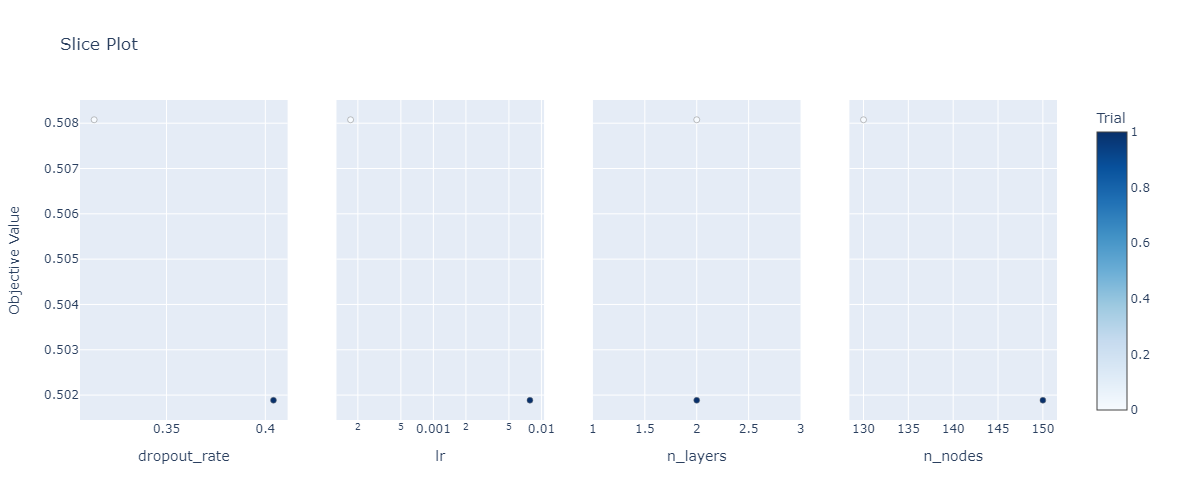
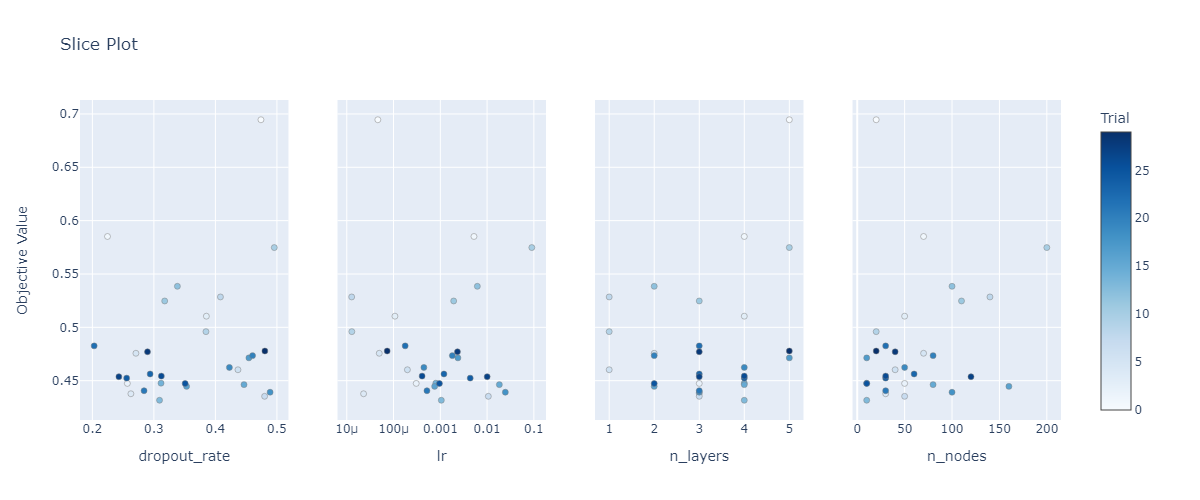
final result

diff --git a/src/script/execute.py b/src/script/execute.py
@@ -33,7 +33,7 @@ def main(trend, baseline=False):
 
     # tune model
     best_params, val_loss = tune_model(norm_train, norm_val, trend=trend)
-    print(f'best hyperparameters: {best_params}\nval RMSE: {np.sqrt(val_loss)}')
+    print(f'best hyperparameters: {best_params}\nval loss: {np.sqrt(val_loss)}')
     if baseline:
         with open('../../results/best_params_baseline.json', 'w') as f:
             json.dump(best_params, f)
@@ -44,7 +44,7 @@ def main(trend, baseline=False):
     # train model with best params
     full_train = np.concatenate((norm_train, norm_val))
     min_test_loss, opt_model_state = train_model(best_params, full_train, norm_test, trend=trend)
-    print(f'minimum test RMSE: {min_test_loss}')
+    print(f'minimum test BCElogistic: {min_test_loss}')
 
     # evaluate with test set and plot results
     lookback = best_params['lookback']
@@ -76,13 +76,13 @@ def main(trend, baseline=False):
         val_plot = np.empty_like(price) * np.nan
         val_plot[len(y_pred)+lookback:len(y_pred)+len(val_pred)+lookback] = val_pred.flatten()
         
-        t_pred = model(temp_test)
-        unscaled_t_pred = t_pred[:, -1, 0].view(-1, 1)  # select the 1-D output and reshape from (batch_size, sequence_length) to (batch_size*sequence_length, 1)
-        t_pred = price_scaler.inverse_transform(unscaled_t_pred) # only price need to be rescaled, trend does not
-        t_plot = np.empty_like(price) * np.nan
-        t_plot[len(y_pred)+len(val_pred)+lookback:] = t_pred.flatten()
+        t_pred = model(temp_test)        
 
         if not trend: 
+            t_pred = price_scaler.inverse_transform(unscaled_t_pred) # only price need to be rescaled, trend does not
+            t_plot = np.empty_like(price) * np.nan
+            t_plot[len(y_pred)+len(val_pred)+lookback:] = t_pred.flatten()
+
             plt.figure(figsize=(10,2))
             plt.plot(price, c='b')
             plt.plot(train_plot, c='r')
@@ -99,6 +99,8 @@ def main(trend, baseline=False):
             plt.show()
 
         else:
+            unscaled_t_pred = t_pred[:, -1, 0].view(-1, 1)  # select the 1-D output and reshape from (batch_size, sequence_length) to (batch_size*sequence_length, 1)
+
             # Calculate true positive and false positive rates
             y_true = test_label[:,0,0].view(-1, 1)
             y_score = unscaled_t_pred
@@ -125,4 +127,4 @@ if __name__ == '__main__':
     if sys.argv[1].lower() not in ['true', 'false']:
         raise ValueError('Invalid input: please use True or False')
     trend = sys.argv[1].lower() == 'true'
-    main(trend, baseline=True)
+    main(trend, baseline=False)

diff --git a/src/script/train.py b/src/script/train.py
@@ -31,17 +31,15 @@ def train_model(params, norm_train, norm_val, trend, n_epochs=2000):
     # create dataloader
     batch_size = 10
     loader = data.DataLoader(data.TensorDataset(X_train, y_train), shuffle=True, batch_size=batch_size)
-    
     # setup model
     model = LSTMModel(input_dim=input_dim, n_nodes=n_nodes, output_dim=1, n_layers=n_layers, dropout_rate=dropout_rate)
     model.double()
     optimizer = opt.Adam(model.parameters(), lr=lr)
-    loss_fn = nn.MSELoss()
+    loss_fn = nn.BCEWithLogitsLoss()
 
     # train model
     min_val_loss = float('inf')
     eval_period = 50 if n_epochs > 1000 else 5
-
 
     for t in range(n_epochs):    
         model.train()
@@ -59,7 +57,6 @@ def train_model(params, norm_train, norm_val, trend, n_epochs=2000):
             with torch.no_grad():
                 val_pred = model(X_val)
                 val_loss = loss_fn(val_pred, y_val).item()
-
                 # Check if current val loss is lower than the minimum val loss
                 if val_loss < min_val_loss:
                     # If so, update the minimum val loss and save the current model state
@@ -70,9 +67,8 @@ def train_model(params, norm_train, norm_val, trend, n_epochs=2000):
                     counter += 1
 
         # If the minimum val loss has not been updated for 2 consecutive epochs, stop training
-        if counter == 2:
+        if counter == 3:
             print(f'Early stopping at epoch {t*eval_period}')
             break
-            #print("Epoch %d: train RMSE %.4f, val RMSE %.4f" % (t, np.sqrt(loss.item()), np.sqrt(val_loss)))
-    return np.sqrt(min_val_loss), opt_model_state
+    return min_val_loss, opt_model_state
 

diff --git a/src/script/tuning.py b/src/script/tuning.py
@@ -7,17 +7,30 @@ def objective(trial, norm_train, norm_val, trend):
         'lookback' : trial.suggest_int("lookback", 5, 60, step=5),
         'lr' : trial.suggest_float("lr", 1e-5, 1e-1, log=True),
         'n_nodes' : trial.suggest_int("n_nodes", 10, 200, step=10),
-        'n_layers' : trial.suggest_int("n_layers", 1, 100),
+        'n_layers' : trial.suggest_int("n_layers", 1, 5),
         'dropout_rate' : trial.suggest_float("dropout_rate", 0.2, 0.5)
     }
 
-    val_loss, _ = train_model(params, norm_train, norm_val, trend=trend, n_epochs=100) # here we don't need the optimal state
+    val_loss, _ = train_model(params, norm_train, norm_val, trend=trend, n_epochs=500) # here we don't need the optimal state
 
     return val_loss
 
+def study_early_stop(study, trial):
+    # Stop if no improvement in the last N trials
+    N = 30
+    threshold = 0.001
+
+    if len(study.trials) < N:
+        return
+
+    best_value = study.best_value
+    values = [t.value for t in study.trials[-N:]]
+    if all((abs(v - best_value) < threshold) or (v > best_value) for v in values):
+        study.stop()
+
 def tune_model(norm_train, norm_val, trend, baseline=False):
     study = optuna.create_study(direction="minimize")
-    study.optimize(lambda trial: objective(trial, norm_train, norm_val, trend=trend), n_trials=1000)
+    study.optimize(lambda trial: objective(trial, norm_train, norm_val, trend=trend), n_trials=200, callbacks=[study_early_stop])
 
     best_trial = study.best_trial
     best_params = best_trial.params

diff --git a/src/script/preprocess.py b/src/script/preprocess.py
@@ -89,14 +89,20 @@ def create_dataset(data, lookback, trend=False):
     Note that the first column need to be the daily market price
     '''
     n_data, n_feat = data.shape
-    X = np.empty((n_data-lookback, lookback, n_feat))
-    y = np.empty((n_data-lookback, lookback, 1))
-    for i in range(n_data-lookback):
+    if trend:
+        loop = n_data - lookback - 1
+        X = np.empty((loop, lookback, n_feat))
+        y = np.empty((loop, lookback, 1))
+        price_trend = (data[1:, 0] > data[:-1, 0]).astype(int)
+        data = data[1:]
+        data[:, 0] = price_trend
+    else:
+        loop = n_data - lookback
+        X = np.empty((n_data-lookback, lookback, n_feat))
+        y = np.empty((n_data-lookback, lookback, 1))
+    for i in range(loop):
         feature = data[i:i+lookback]
-        if trend:
-            target = (data[i+lookback:i+lookback+1, 0] > data[i+lookback-1:i+lookback, 0]).astype(int)
-        else:
-            target = data[i+1:i+lookback+1, 0].reshape(-1,1)
+        target = data[i+1:i+lookback+1, 0].reshape(-1,1)
         X[i] = feature
         y[i] = target
     return torch.tensor(X), torch.tensor(y)
